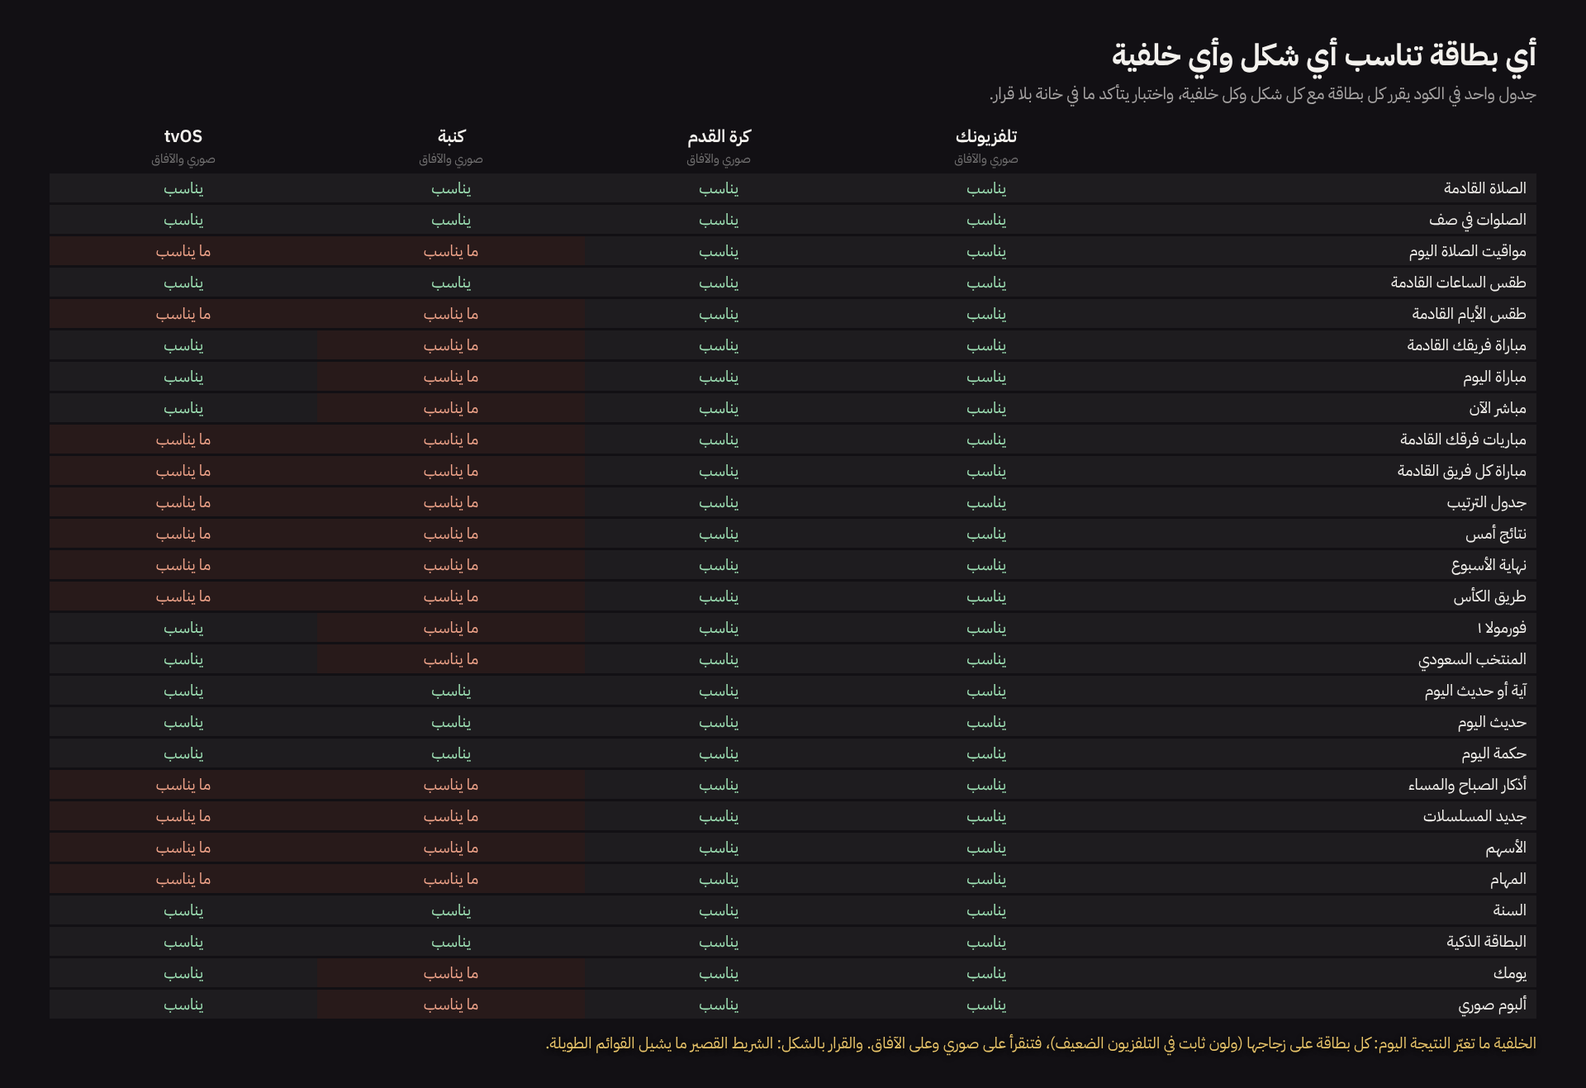
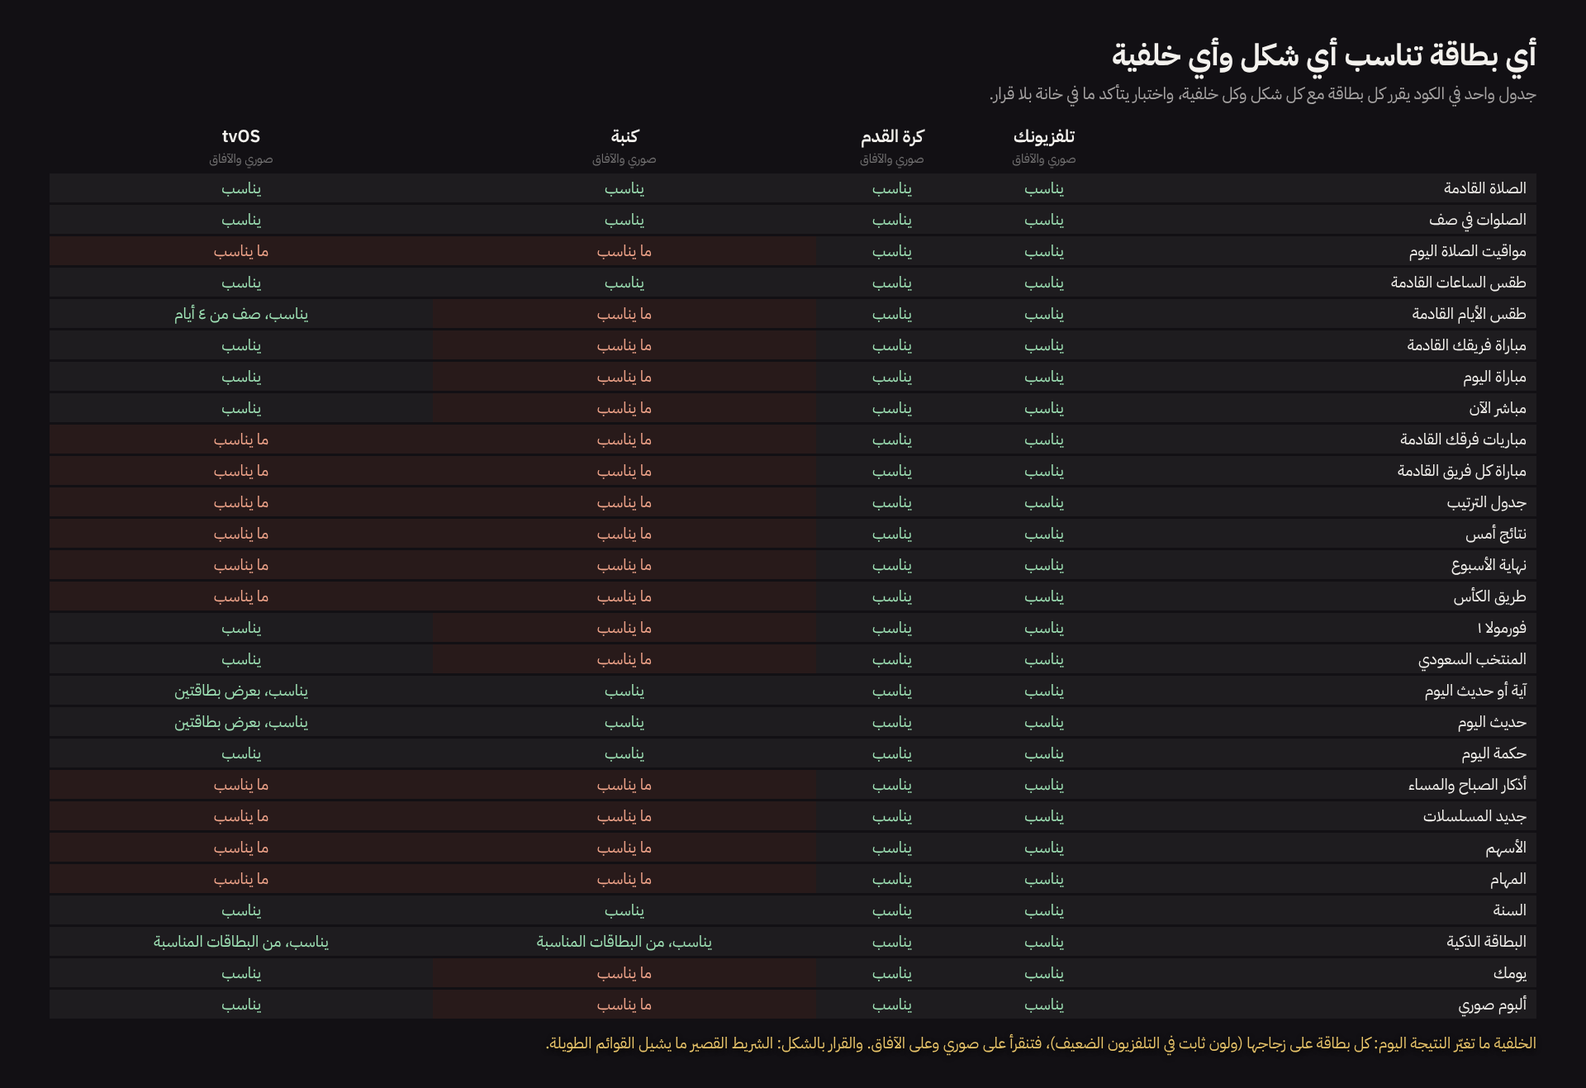
mockups: full looks table, tvOS column with the glass session: verse and hadith two cards wide, the coming days as a row of four, the smart card picks only fitting cards

diff --git a/docs/mockups/full-look/src/08-matrix.html b/docs/mockups/full-look/src/08-matrix.html
@@ -4,5 +4,5 @@ table{border-collapse:separate;border-spacing:0 3px;width:100%;font-size:19px}th
 td{padding:3px 12px;text-align:center;background:rgba(255,255,255,.05)}td.c{text-align:right;width:28%}td.y{color:#9fe3b6}td.n{color:#f0a48a;background:rgba(240,120,90,.10)}
 .note{position:static;margin-top:12px;font-size:19px;color:var(--gold)}</style></head><body>
 <h1>أي بطاقة تناسب أي شكل وأي خلفية</h1><p>جدول واحد في الكود يقرر كل بطاقة مع كل شكل وكل خلفية، واختبار يتأكد ما في خانة بلا قرار.</p>
-<table><tr><th></th><th>تلفزيونك<small>صوري والآفاق</small></th><th>كرة القدم<small>صوري والآفاق</small></th><th>كنبة<small>صوري والآفاق</small></th><th>tvOS<small>صوري والآفاق</small></th></tr><tr><td class=c>الصلاة القادمة</td><td class="y">يناسب</td><td class="y">يناسب</td><td class="y">يناسب</td><td class="y">يناسب</td></tr><tr><td class=c>الصلوات في صف</td><td class="y">يناسب</td><td class="y">يناسب</td><td class="y">يناسب</td><td class="y">يناسب</td></tr><tr><td class=c>مواقيت الصلاة اليوم</td><td class="y">يناسب</td><td class="y">يناسب</td><td class="n">ما يناسب</td><td class="n">ما يناسب</td></tr><tr><td class=c>طقس الساعات القادمة</td><td class="y">يناسب</td><td class="y">يناسب</td><td class="y">يناسب</td><td class="y">يناسب</td></tr><tr><td class=c>طقس الأيام القادمة</td><td class="y">يناسب</td><td class="y">يناسب</td><td class="n">ما يناسب</td><td class="n">ما يناسب</td></tr><tr><td class=c>مباراة فريقك القادمة</td><td class="y">يناسب</td><td class="y">يناسب</td><td class="n">ما يناسب</td><td class="y">يناسب</td></tr><tr><td class=c>مباراة اليوم</td><td class="y">يناسب</td><td class="y">يناسب</td><td class="n">ما يناسب</td><td class="y">يناسب</td></tr><tr><td class=c>مباشر الآن</td><td class="y">يناسب</td><td class="y">يناسب</td><td class="n">ما يناسب</td><td class="y">يناسب</td></tr><tr><td class=c>مباريات فرقك القادمة</td><td class="y">يناسب</td><td class="y">يناسب</td><td class="n">ما يناسب</td><td class="n">ما يناسب</td></tr><tr><td class=c>مباراة كل فريق القادمة</td><td class="y">يناسب</td><td class="y">يناسب</td><td class="n">ما يناسب</td><td class="n">ما يناسب</td></tr><tr><td class=c>جدول الترتيب</td><td class="y">يناسب</td><td class="y">يناسب</td><td class="n">ما يناسب</td><td class="n">ما يناسب</td></tr><tr><td class=c>نتائج أمس</td><td class="y">يناسب</td><td class="y">يناسب</td><td class="n">ما يناسب</td><td class="n">ما يناسب</td></tr><tr><td class=c>نهاية الأسبوع</td><td class="y">يناسب</td><td class="y">يناسب</td><td class="n">ما يناسب</td><td class="n">ما يناسب</td></tr><tr><td class=c>طريق الكأس</td><td class="y">يناسب</td><td class="y">يناسب</td><td class="n">ما يناسب</td><td class="n">ما يناسب</td></tr><tr><td class=c>فورمولا ١</td><td class="y">يناسب</td><td class="y">يناسب</td><td class="n">ما يناسب</td><td class="y">يناسب</td></tr><tr><td class=c>المنتخب السعودي</td><td class="y">يناسب</td><td class="y">يناسب</td><td class="n">ما يناسب</td><td class="y">يناسب</td></tr><tr><td class=c>آية أو حديث اليوم</td><td class="y">يناسب</td><td class="y">يناسب</td><td class="y">يناسب</td><td class="y">يناسب</td></tr><tr><td class=c>حديث اليوم</td><td class="y">يناسب</td><td class="y">يناسب</td><td class="y">يناسب</td><td class="y">يناسب</td></tr><tr><td class=c>حكمة اليوم</td><td class="y">يناسب</td><td class="y">يناسب</td><td class="y">يناسب</td><td class="y">يناسب</td></tr><tr><td class=c>أذكار الصباح والمساء</td><td class="y">يناسب</td><td class="y">يناسب</td><td class="n">ما يناسب</td><td class="n">ما يناسب</td></tr><tr><td class=c>جديد المسلسلات</td><td class="y">يناسب</td><td class="y">يناسب</td><td class="n">ما يناسب</td><td class="n">ما يناسب</td></tr><tr><td class=c>الأسهم</td><td class="y">يناسب</td><td class="y">يناسب</td><td class="n">ما يناسب</td><td class="n">ما يناسب</td></tr><tr><td class=c>المهام</td><td class="y">يناسب</td><td class="y">يناسب</td><td class="n">ما يناسب</td><td class="n">ما يناسب</td></tr><tr><td class=c>السنة</td><td class="y">يناسب</td><td class="y">يناسب</td><td class="y">يناسب</td><td class="y">يناسب</td></tr><tr><td class=c>البطاقة الذكية</td><td class="y">يناسب</td><td class="y">يناسب</td><td class="y">يناسب</td><td class="y">يناسب</td></tr><tr><td class=c>يومك</td><td class="y">يناسب</td><td class="y">يناسب</td><td class="n">ما يناسب</td><td class="y">يناسب</td></tr><tr><td class=c>ألبوم صوري</td><td class="y">يناسب</td><td class="y">يناسب</td><td class="n">ما يناسب</td><td class="y">يناسب</td></tr></table>
+<table><tr><th></th><th>تلفزيونك<small>صوري والآفاق</small></th><th>كرة القدم<small>صوري والآفاق</small></th><th>كنبة<small>صوري والآفاق</small></th><th>tvOS<small>صوري والآفاق</small></th></tr><tr><td class=c>الصلاة القادمة</td><td class="y">يناسب</td><td class="y">يناسب</td><td class="y">يناسب</td><td class="y">يناسب</td></tr><tr><td class=c>الصلوات في صف</td><td class="y">يناسب</td><td class="y">يناسب</td><td class="y">يناسب</td><td class="y">يناسب</td></tr><tr><td class=c>مواقيت الصلاة اليوم</td><td class="y">يناسب</td><td class="y">يناسب</td><td class="n">ما يناسب</td><td class="n">ما يناسب</td></tr><tr><td class=c>طقس الساعات القادمة</td><td class="y">يناسب</td><td class="y">يناسب</td><td class="y">يناسب</td><td class="y">يناسب</td></tr><tr><td class=c>طقس الأيام القادمة</td><td class="y">يناسب</td><td class="y">يناسب</td><td class="n">ما يناسب</td><td class="y">يناسب، صف من ٤ أيام</td></tr><tr><td class=c>مباراة فريقك القادمة</td><td class="y">يناسب</td><td class="y">يناسب</td><td class="n">ما يناسب</td><td class="y">يناسب</td></tr><tr><td class=c>مباراة اليوم</td><td class="y">يناسب</td><td class="y">يناسب</td><td class="n">ما يناسب</td><td class="y">يناسب</td></tr><tr><td class=c>مباشر الآن</td><td class="y">يناسب</td><td class="y">يناسب</td><td class="n">ما يناسب</td><td class="y">يناسب</td></tr><tr><td class=c>مباريات فرقك القادمة</td><td class="y">يناسب</td><td class="y">يناسب</td><td class="n">ما يناسب</td><td class="n">ما يناسب</td></tr><tr><td class=c>مباراة كل فريق القادمة</td><td class="y">يناسب</td><td class="y">يناسب</td><td class="n">ما يناسب</td><td class="n">ما يناسب</td></tr><tr><td class=c>جدول الترتيب</td><td class="y">يناسب</td><td class="y">يناسب</td><td class="n">ما يناسب</td><td class="n">ما يناسب</td></tr><tr><td class=c>نتائج أمس</td><td class="y">يناسب</td><td class="y">يناسب</td><td class="n">ما يناسب</td><td class="n">ما يناسب</td></tr><tr><td class=c>نهاية الأسبوع</td><td class="y">يناسب</td><td class="y">يناسب</td><td class="n">ما يناسب</td><td class="n">ما يناسب</td></tr><tr><td class=c>طريق الكأس</td><td class="y">يناسب</td><td class="y">يناسب</td><td class="n">ما يناسب</td><td class="n">ما يناسب</td></tr><tr><td class=c>فورمولا ١</td><td class="y">يناسب</td><td class="y">يناسب</td><td class="n">ما يناسب</td><td class="y">يناسب</td></tr><tr><td class=c>المنتخب السعودي</td><td class="y">يناسب</td><td class="y">يناسب</td><td class="n">ما يناسب</td><td class="y">يناسب</td></tr><tr><td class=c>آية أو حديث اليوم</td><td class="y">يناسب</td><td class="y">يناسب</td><td class="y">يناسب</td><td class="y">يناسب، بعرض بطاقتين</td></tr><tr><td class=c>حديث اليوم</td><td class="y">يناسب</td><td class="y">يناسب</td><td class="y">يناسب</td><td class="y">يناسب، بعرض بطاقتين</td></tr><tr><td class=c>حكمة اليوم</td><td class="y">يناسب</td><td class="y">يناسب</td><td class="y">يناسب</td><td class="y">يناسب</td></tr><tr><td class=c>أذكار الصباح والمساء</td><td class="y">يناسب</td><td class="y">يناسب</td><td class="n">ما يناسب</td><td class="n">ما يناسب</td></tr><tr><td class=c>جديد المسلسلات</td><td class="y">يناسب</td><td class="y">يناسب</td><td class="n">ما يناسب</td><td class="n">ما يناسب</td></tr><tr><td class=c>الأسهم</td><td class="y">يناسب</td><td class="y">يناسب</td><td class="n">ما يناسب</td><td class="n">ما يناسب</td></tr><tr><td class=c>المهام</td><td class="y">يناسب</td><td class="y">يناسب</td><td class="n">ما يناسب</td><td class="n">ما يناسب</td></tr><tr><td class=c>السنة</td><td class="y">يناسب</td><td class="y">يناسب</td><td class="y">يناسب</td><td class="y">يناسب</td></tr><tr><td class=c>البطاقة الذكية</td><td class="y">يناسب</td><td class="y">يناسب</td><td class="y">يناسب، من البطاقات المناسبة</td><td class="y">يناسب، من البطاقات المناسبة</td></tr><tr><td class=c>يومك</td><td class="y">يناسب</td><td class="y">يناسب</td><td class="n">ما يناسب</td><td class="y">يناسب</td></tr><tr><td class=c>ألبوم صوري</td><td class="y">يناسب</td><td class="y">يناسب</td><td class="n">ما يناسب</td><td class="y">يناسب</td></tr></table>
 <div class="note">الخلفية ما تغيّر النتيجة اليوم: كل بطاقة على زجاجها (ولون ثابت في التلفزيون الضعيف)، فتنقرأ على صوري وعلى الآفاق. والقرار بالشكل: الشريط القصير ما يشيل القوائم الطويلة.</div></body></html>

diff --git a/docs/mockups/full-look/README.md b/docs/mockups/full-look/README.md
@@ -54,7 +54,7 @@
 - جدول واحد في الكود يكون هو المصدر الوحيد (CardFit في التطبيق، اللي يقرر اليوم شريط كنبة). نوسّعه لكل شكل وكل خلفية.
 - اختبار (tests/card_fit_test.py) يتأكد إن كل خانة (بطاقة × شكل × خلفية) لها قرار وسبب.
 - الخلفية اليوم ما تغيّر النتيجة: كل بطاقة على زجاجها (ولون ثابت في التلفزيون الضعيف)، فتنقرأ على صوري وعلى الآفاق. الشكل هو اللي يقرر: الشريط القصير ما يشيل القوائم الطويلة.
-- القرار المقترح لـtvOS: البطاقة تشيل ثلاث أسطر، فتدخلها بطاقات المباراة الواحدة وفورمولا ١ والمنتخب و«يومك» والألبوم، والقوائم الطويلة لا.
+- القرار المقترح لـtvOS (مع جلسة الزجاج): البطاقة عنوان وثلاث أسطر، فتدخلها بطاقات المباراة الواحدة وفورمولا ١ والمنتخب و«يومك» والألبوم، والقوائم الطويلة لا. الآية والحديث تاخذ عرض بطاقتين (النص هويتنا، وما نقطعه أبدًا)، والثالثة تروح للتمرير. طقس الأيام صف من ٤ أيام. و«البطاقة الذكية» تختار بس من البطاقات اللي تناسب الشكل.
 
 | البطاقة | تلفزيونك | كرة القدم | كنبة | tvOS |
 |---|---|---|---|---|
@@ -62,7 +62,7 @@
 | الصلوات في صف | يناسب | يناسب | يناسب | يناسب |
 | مواقيت الصلاة اليوم | يناسب | يناسب | ما يناسب | ما يناسب |
 | طقس الساعات القادمة | يناسب | يناسب | يناسب | يناسب |
-| طقس الأيام القادمة | يناسب | يناسب | ما يناسب | ما يناسب |
+| طقس الأيام القادمة | يناسب | يناسب | ما يناسب | يناسب، صف من ٤ أيام |
 | مباراة فريقك القادمة | يناسب | يناسب | ما يناسب | يناسب |
 | مباراة اليوم | يناسب | يناسب | ما يناسب | يناسب |
 | مباشر الآن | يناسب | يناسب | ما يناسب | يناسب |
@@ -74,15 +74,15 @@
 | طريق الكأس | يناسب | يناسب | ما يناسب | ما يناسب |
 | فورمولا ١ | يناسب | يناسب | ما يناسب | يناسب |
 | المنتخب السعودي | يناسب | يناسب | ما يناسب | يناسب |
-| آية أو حديث اليوم | يناسب | يناسب | يناسب | يناسب |
-| حديث اليوم | يناسب | يناسب | يناسب | يناسب |
+| آية أو حديث اليوم | يناسب | يناسب | يناسب | يناسب، بعرض بطاقتين |
+| حديث اليوم | يناسب | يناسب | يناسب | يناسب، بعرض بطاقتين |
 | حكمة اليوم | يناسب | يناسب | يناسب | يناسب |
 | أذكار الصباح والمساء | يناسب | يناسب | ما يناسب | ما يناسب |
 | جديد المسلسلات | يناسب | يناسب | ما يناسب | ما يناسب |
 | الأسهم | يناسب | يناسب | ما يناسب | ما يناسب |
 | المهام | يناسب | يناسب | ما يناسب | ما يناسب |
 | السنة | يناسب | يناسب | يناسب | يناسب |
-| البطاقة الذكية | يناسب | يناسب | يناسب | يناسب |
+| البطاقة الذكية | يناسب | يناسب | يناسب، من البطاقات المناسبة | يناسب، من البطاقات المناسبة |
 | يومك | يناسب | يناسب | ما يناسب | يناسب |
 | ألبوم صوري | يناسب | يناسب | ما يناسب | يناسب |
 

diff --git a/docs/mockups/full-look/src/matrix.md b/docs/mockups/full-look/src/matrix.md
@@ -4,7 +4,7 @@
 | الصلوات في صف | يناسب | يناسب | يناسب | يناسب |
 | مواقيت الصلاة اليوم | يناسب | يناسب | ما يناسب | ما يناسب |
 | طقس الساعات القادمة | يناسب | يناسب | يناسب | يناسب |
-| طقس الأيام القادمة | يناسب | يناسب | ما يناسب | ما يناسب |
+| طقس الأيام القادمة | يناسب | يناسب | ما يناسب | يناسب، صف من ٤ أيام |
 | مباراة فريقك القادمة | يناسب | يناسب | ما يناسب | يناسب |
 | مباراة اليوم | يناسب | يناسب | ما يناسب | يناسب |
 | مباشر الآن | يناسب | يناسب | ما يناسب | يناسب |
@@ -16,14 +16,14 @@
 | طريق الكأس | يناسب | يناسب | ما يناسب | ما يناسب |
 | فورمولا ١ | يناسب | يناسب | ما يناسب | يناسب |
 | المنتخب السعودي | يناسب | يناسب | ما يناسب | يناسب |
-| آية أو حديث اليوم | يناسب | يناسب | يناسب | يناسب |
-| حديث اليوم | يناسب | يناسب | يناسب | يناسب |
+| آية أو حديث اليوم | يناسب | يناسب | يناسب | يناسب، بعرض بطاقتين |
+| حديث اليوم | يناسب | يناسب | يناسب | يناسب، بعرض بطاقتين |
 | حكمة اليوم | يناسب | يناسب | يناسب | يناسب |
 | أذكار الصباح والمساء | يناسب | يناسب | ما يناسب | ما يناسب |
 | جديد المسلسلات | يناسب | يناسب | ما يناسب | ما يناسب |
 | الأسهم | يناسب | يناسب | ما يناسب | ما يناسب |
 | المهام | يناسب | يناسب | ما يناسب | ما يناسب |
 | السنة | يناسب | يناسب | يناسب | يناسب |
-| البطاقة الذكية | يناسب | يناسب | يناسب | يناسب |
+| البطاقة الذكية | يناسب | يناسب | يناسب، من البطاقات المناسبة | يناسب، من البطاقات المناسبة |
 | يومك | يناسب | يناسب | ما يناسب | يناسب |
 | ألبوم صوري | يناسب | يناسب | ما يناسب | يناسب |
